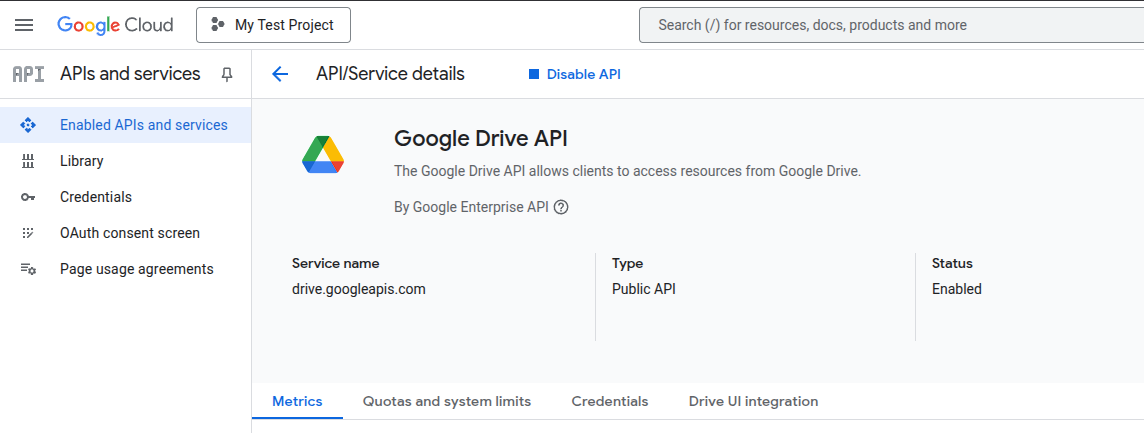
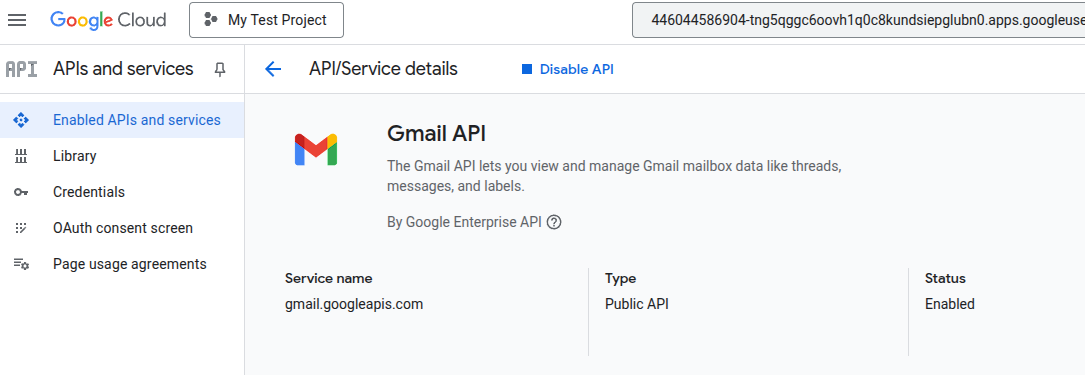
DocsUpdate-1645: lisa.dellaporta's Jul 8 changes - generic actions update

diff --git a/documentation/automations/actions-in-rewst/README.md b/documentation/automations/actions-in-rewst/README.md
@@ -16,35 +16,59 @@ Each action serves a unique purpose and comes with a brief description to aid in
 Click through to any of the related action type pages to learn more.
 {% endhint %}
 
+### Core actions
+
+These are the essential platform components like webhooks, email dispatching, and [noops](https://docs.rewst.help/documentation/workflows/actions-in-rewst/core-actions#no-operation-noop).&#x20;
+
 {% content-ref url="core-actions.md" %}
 [core-actions.md](core-actions.md)
 {% endcontent-ref %}
 
-Core actions: These are the essential platform components like webhooks, email dispatching, and [noops](https://docs.rewst.help/documentation/workflows/actions-in-rewst/core-actions#no-operation-noop).&#x20;
+### Integrations actions
+
+When you set up an integration in Rewst, it comes with a predefined set of actions, which will appear in your workflow builder action menu. These actions allow you to work with various parts of the integrated product as per its API. Rewst's integrations pull in the most useful and most commonly used actions, but not all available actions. See our [individual integration setup pages](../../configuration/integrations/) for more information on available actions.
 
 {% content-ref url="../../configuration/integrations/" %}
 [integrations](../../configuration/integrations/)
 {% endcontent-ref %}
 
-Integrations actions: When you set up an integration in Rewst, it comes with a predefined set of actions, which will appear in your workflow builder action menu. These actions allow you to work with various parts of the integrated product as per its API. Rewst's integrations pull in the most useful and most commonly used actions, but not all available actions. Each integration's action accordion menu will also contain an action to allow you to pull in additional actions. This action is titled `[Integration Name] API Request`. See our [individual integration setup pages](../../configuration/integrations/) for more information on available actions.
+### Rewst actions
+
+These actions are for interacting with your Rewst environment. You can perform tasks such as creating organizations and users, associating with multi-tenanted objects, and setting organization variables.
 
 {% content-ref url="rewst-actions.md" %}
 [rewst-actions.md](rewst-actions.md)
 {% endcontent-ref %}
 
-Rewst actions: These actions are for interacting with your Rewst environment. You can perform tasks such as creating organizations and users, associating with multi-tenanted objects, and setting organization variables.
+### Transform actions&#x20;
+
+These actions help you shape and modify your data for efficient workflow execution, replacing the need for complex Jinja statements.
 
 {% content-ref url="transform-actions/" %}
 [transform-actions](transform-actions/)
 {% endcontent-ref %}
 
-Transform actions: These actions help you shape and modify your data for efficient workflow execution, replacing the need for complex Jinja statements.
+### Workflows actions&#x20;
+
+These actions allow you to call other workflows within your environment. They enable you to feed information from the parent workflow as inputs and return the results upon completion.
 
 {% content-ref url="workflows-actions.md" %}
 [workflows-actions.md](workflows-actions.md)
 {% endcontent-ref %}
 
-Workflows actions: These actions allow you to call other workflows within your environment. They enable you to feed information from the parent workflow as inputs and return the results upon completion.
+### Generic actions
+
+For each integration, Rewst provides a single action that isn't predefined like the other integration-related actions, but which can be used to define a URL path. Using that path for the endpoint you wish to reach in the partner's API allows you to specify data, cookies, headers, etc., for custom targeting beyond what Rewst's other predefined actions allow.&#x20;
+
+Generic actions rely heavily on your reading the integration's API documentation and researching the endpoints yourself. Most frequently, we suggest this as a feature for more advanced users, though customers with specific goals might be required to use it early on in their onboarding process.
+
+Generic actions are typically named after the integration in the format of `[integration] API Request`. For example, for HaloPSA the action is called `HaloPSA API Request` .
+
+<figure><img src="../../../.gitbook/assets/image.png" alt="" width="246"><figcaption><p>The HaloPSA generic action</p></figcaption></figure>
+
+{% hint style="warning" %}
+Note that the paginate request option in any generic action modifies how the request is formed. This can cause issues on the API's side, causing them to behave unexpectedly and return error messages.
+{% endhint %}
 
 ## Known actions issues and errors
 

diff --git a/documentation/configuration/integrations/integration-guides/google-admin/google-workspace-admin-sdk-integration-setup.md b/documentation/configuration/integrations/integration-guides/google-admin/google-workspace-admin-sdk-integration-setup.md
@@ -111,7 +111,7 @@ The user who is authorizing this integration in Rewst must have Super Admin acce
     \
 
 
-    <figure><img src="../../../../../.gitbook/assets/image (1).png" alt=""><figcaption></figcaption></figure>
+    <figure><img src="../../../../../.gitbook/assets/image (1) (3).png" alt=""><figcaption></figcaption></figure>
 
 #### Enable Gmail API
 
@@ -122,7 +122,7 @@ The user who is authorizing this integration in Rewst must have Super Admin acce
     \
 
 
-    <figure><img src="../../../../../.gitbook/assets/image.png" alt=""><figcaption></figcaption></figure>
+    <figure><img src="../../../../../.gitbook/assets/image (1).png" alt=""><figcaption></figcaption></figure>
 
 #### Enable Group Settings API
 

diff --git a/documentation/automations/actions-in-rewst/rewst-actions.md b/documentation/automations/actions-in-rewst/rewst-actions.md
@@ -1,7 +1,3 @@
----
-description: Interact and Innovate with Rewst Actions
----
-
 # Rewst actions
 
 ## Available Rewst actions
